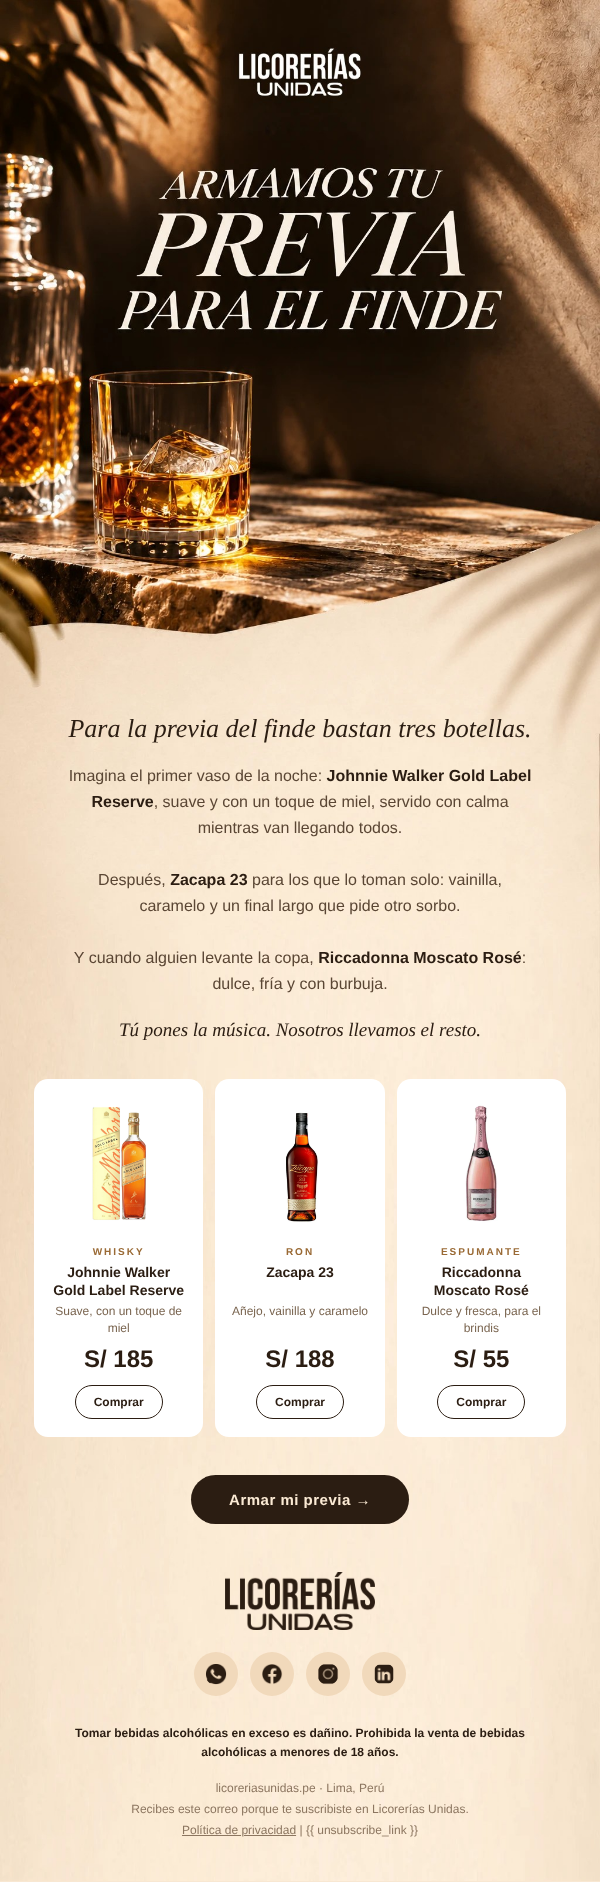
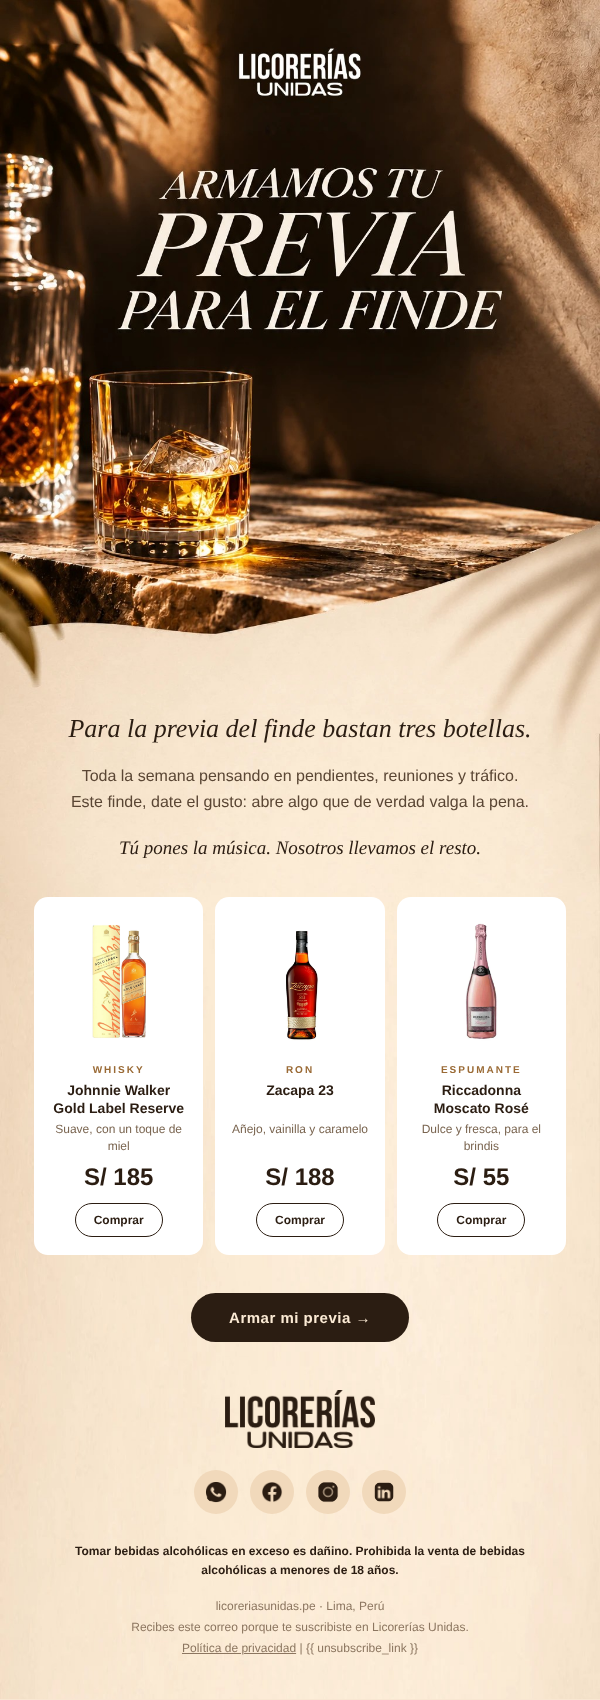
Mailing previa: cuerpo corto con ángulo darse el gusto
Claude-Session: https://claude.ai/code/session_0148WGEnZfS2ZRp3UxJqiBn1

diff --git a/entregables/mailing_nov/2026-11-07_previa.html b/entregables/mailing_nov/2026-11-07_previa.html
@@ -34,9 +34,8 @@
     Para la previa del finde bastan tres botellas.
   </td></tr>
   <tr><td class="px" align="center" style="padding:18px 64px 0;font-family:Arial,Helvetica,sans-serif;font-size:16px;line-height:26px;color:#5A4634">
-    Imagina el primer vaso de la noche: <b style="color:#2B1D12">Johnnie Walker Gold Label Reserve</b>, suave y con un toque de miel, servido con calma mientras van llegando todos.<br><br>
-    Después, <b style="color:#2B1D12">Zacapa 23</b> para los que lo toman solo: vainilla, caramelo y un final largo que pide otro sorbo.<br><br>
-    Y cuando alguien levante la copa, <b style="color:#2B1D12">Riccadonna Moscato Rosé</b>: dulce, fría y con burbuja.
+    Toda la semana pensando en pendientes, reuniones y tráfico.<br>
+    Este finde, date el gusto: abre algo que de verdad valga la pena.
   </td></tr>
   <tr><td class="px" align="center" style="padding:20px 64px 0;font-family:Georgia,'Times New Roman',serif;font-size:19px;line-height:26px;color:#2B1D12;font-style:italic">
     Tú pones la música. Nosotros llevamos el resto.
